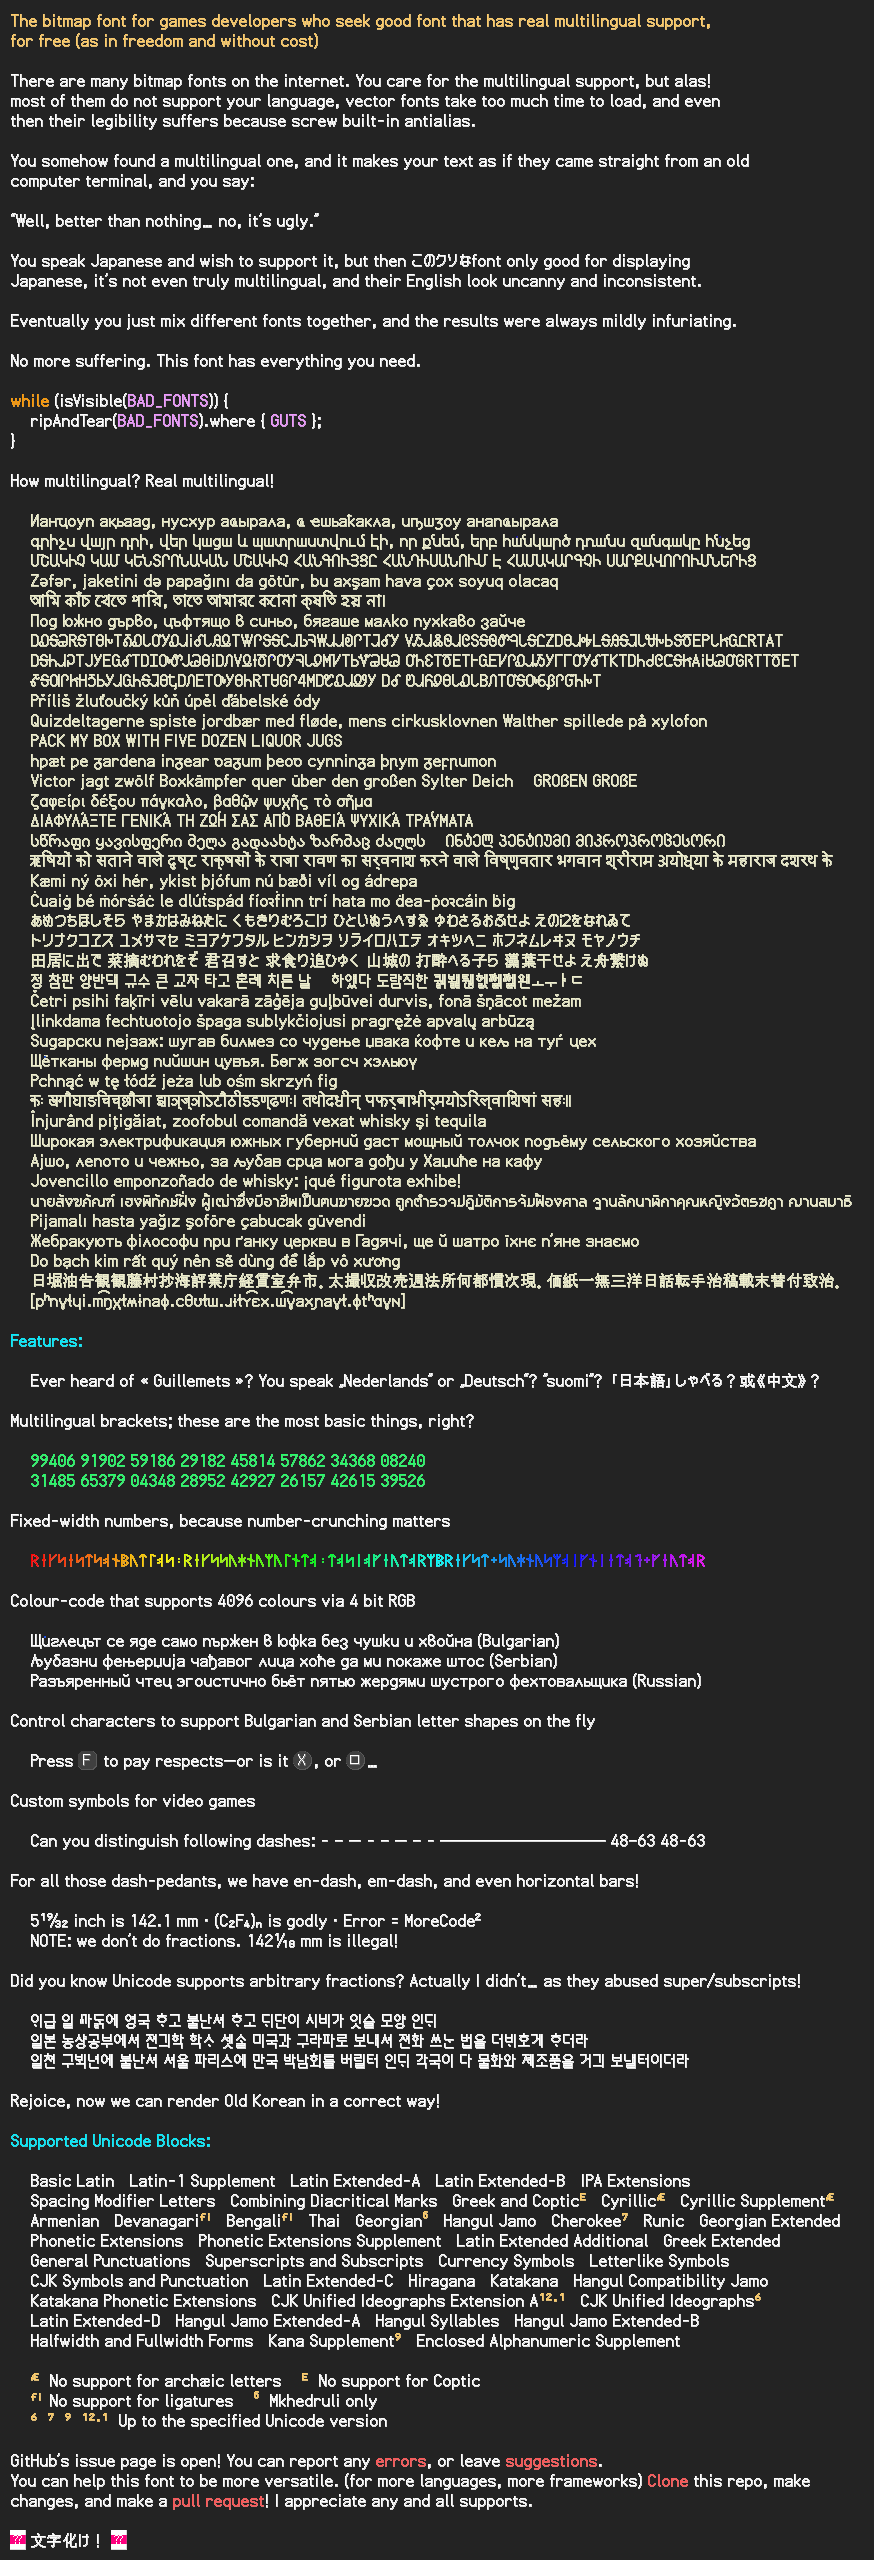
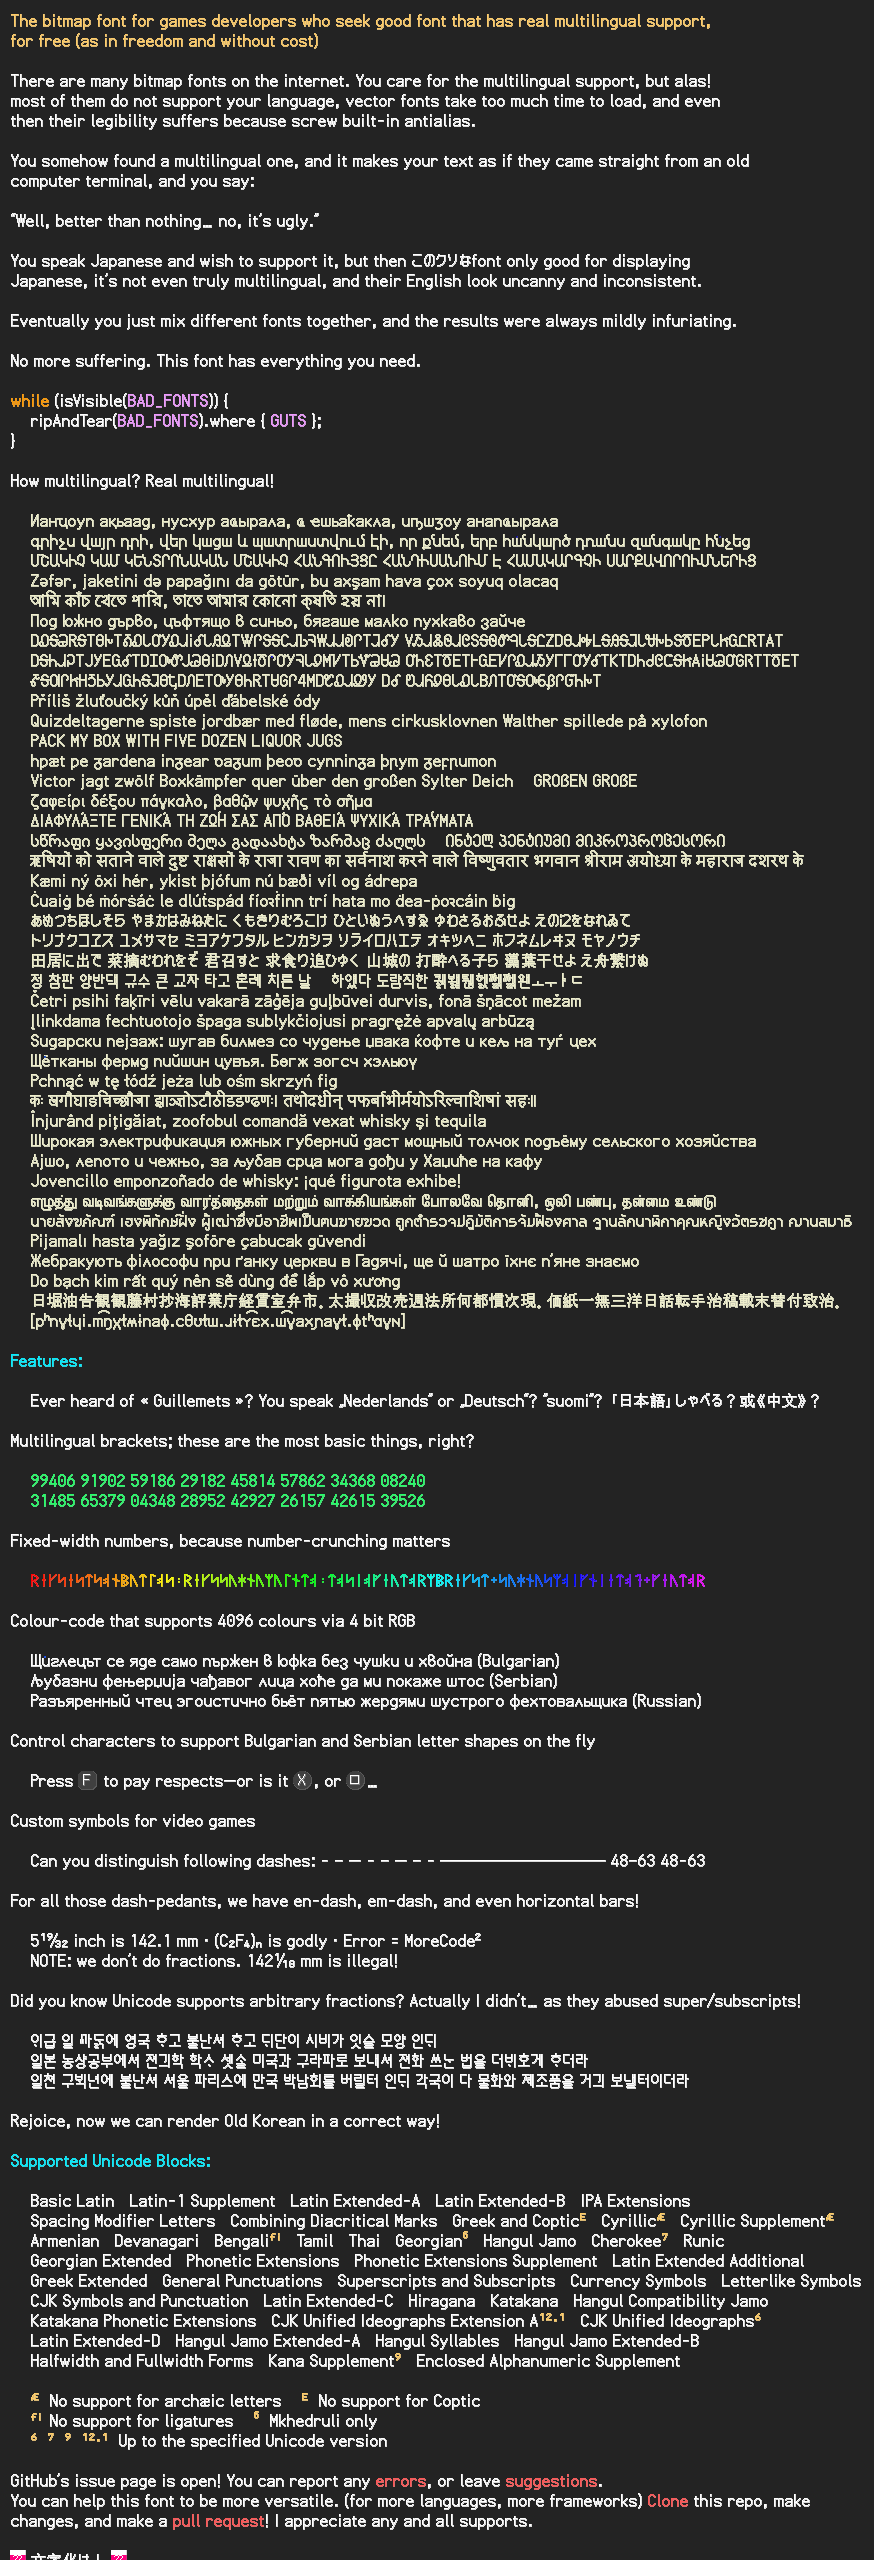
i think devanagari is fully working now

diff --git a/src/net/torvald/terrarumsansbitmap/gdx/TerrarumSansBitmap.kt b/src/net/torvald/terrarumsansbitmap/gdx/TerrarumSansBitmap.kt
@@ -32,6 +32,7 @@ import com.badlogic.gdx.graphics.g2d.*
 import com.badlogic.gdx.utils.GdxRuntimeException
 import net.torvald.terrarumsansbitmap.DiacriticsAnchor
 import net.torvald.terrarumsansbitmap.GlyphProps
+import net.torvald.terrarumsansbitmap.gdx.TerrarumSansBitmap.Companion.charInfo
 import java.io.BufferedOutputStream
 import java.io.FileOutputStream
 import java.util.*
@@ -1071,6 +1072,7 @@ class TerrarumSansBitmap(
             val c = dis[i]
             val cNext = dis.getOrElse(i+1) { -1 }
             val cNext2 = dis.getOrElse(i+2) { -1 }
+            val cNext3 = dis.getOrElse(i+3) { -1 }
             // can't use regular sliding window as the 'i' value is changed way too often
 
             // LET THE NORMALISATION BEGIN //
@@ -1163,6 +1165,13 @@ class TerrarumSansBitmap(
             // END of tamil subsystem implementation
 
             // BEGIN of devanagari string replacer
+            // Alternative Forms of Cluster-initial RA
+            else if (c == DEVANAGARI_RA && cNext == ZWJ && cNext2 == DEVANAGARI_VIRAMA && cNext3 == DEVANAGARI_YA) {
+                seq.add(DEVANAGARI_RYA); i += 3
+            }
+            else if (c == DEVANAGARI_RA && cNext == ZWJ && cNext2 == DEVANAGARI_VIRAMA) {
+                seq.add(DEVANAGARI_RA); i += 2
+            }
             // Unicode Devanagari Rendering Rule R14
             else if (c == DEVANAGARI_RA && cNext == DEVANAGARI_U) {
                 seq.add(DEVANAGARI_SYLL_RU); i += 1
@@ -1247,23 +1256,14 @@ class TerrarumSansBitmap(
         }
 
 
-        // second scan
-        // swap position of {letter, diacritics that comes before the letter}
-        i = 1
+        // BEGIN of Devanagari String Replacer 2 (lookbehind type)
+        i = 0
         while (i <= seq.lastIndex) {
-
-            // reposition [cluster, align-before, align-after] into [align-before, cluster, align-after]
-            if ((glyphProps[seq[i]] ?: nullProp).alignWhere == GlyphProps.ALIGN_BEFORE) {
-                val t = seq[i - 1]
-                seq[i - 1] = seq[i]
-                seq[i] = t
-            }
 
             val cPrev2 = seq.getOrElse(i-2) { -1 }
             val cPrev = seq.getOrElse(i-1) { -1 }
             val c = seq[i]
 
-            // BEGIN of Devanagari String Replacer 2 (lookbehind type)
             // Devanagari Ligations (Lookbehind)
             if (devanagariConsonants.contains(cPrev2) && cPrev == DEVANAGARI_VIRAMA && devanagariConsonants.contains(c)) {
                 i -= 2
@@ -1277,11 +1277,47 @@ class TerrarumSansBitmap(
 
                 i += ligature.size
             }
-            // END of Devanagari String Replacer 2
-
 
             i++
         }
+        // END of Devanagari String Replacer 2
+
+
+        // second scan
+        // swap position of {letter, diacritics that comes before the letter}
+        // reposition [cluster, align-before, align-after] into [align-before, cluster, align-after]
+        i = 0
+        while (i <= seq.lastIndex) {
+            if (i > 0 && (glyphProps[seq[i]] ?: nullProp).alignWhere == GlyphProps.ALIGN_BEFORE) {
+                val verb = seq[i]
+//                dbgprn("Verb realign: index $i, ${verb.charInfo()}")
+                if (isDevanagari(verb)) {
+                    // scan for the consonant cluster backwards
+                    // [not ligature glyphs] h h h h h c l r
+                    var scanCounter = 1
+                    while (true) {
+                        val cAtCurs = seq.getOrElse(i - scanCounter) { -1 }
+//                        dbgprn("    scan back $scanCounter, char: ${cAtCurs.charInfo()}")
+                        if (scanCounter == 1 && devanagariConsonantsNonLig.contains(cAtCurs) ||
+                            scanCounter > 1 && devanariConsonantsHalfs.contains(cAtCurs))
+                            scanCounter += 1
+                        else
+                            break
+                    } // scanCounter points at the terminator. the left-verb must be placed at (i - scanCounter + 1)
+
+                    seq.removeAt(i)
+                    seq.add(i - scanCounter + 1, verb)
+                }
+                else {
+                    val t = seq[i - 1]
+                    seq[i - 1] = seq[i]
+                    seq[i] = t
+                }
+            }
+
+            i++
+        }
+
 
         // unpack replacewith
         seq.forEach {
@@ -1740,18 +1776,26 @@ class TerrarumSansBitmap(
         private val ZWNJ = 0x200C
         private val ZWJ = 0x200D
 
-        private val tamilLigatingConsonants = listOf('க','ங','ச','ஞ','ட','ண','த','ந','ன','ப','ம','ய','ர','ற','ல','ள','ழ','வ').map { it.toInt() }.toIntArray()
+        private val tamilLigatingConsonants = listOf('க','ங','ச','ஞ','ட','ண','த','ந','ன','ப','ம','ய','ர','ற','ல','ள','ழ','வ').map { it.toInt() }.toIntArray() // this is the only thing that .indexOf() is called against, so NO HASHSET
         private val TAMIL_KSSA = 0xF00ED
         private val TAMIL_SHRII = 0xF00EE
 
-        private val devanagariConsonants = ((0x0915..0x0939) + (0x0958..0x095F) + (0x0978..0x097F) + (0xF0105..0xF01FF)).toIntArray()
-        private val devanagariVerbs = ((0x093A..0x093C) + (0x093E..0x094C) + (0x094E..0x094F)).toIntArray()
+        private val devanagariConsonants = ((0x0915..0x0939) + (0x0958..0x095F) + (0x0978..0x097F) + (0xF0105..0xF01FF)).toHashSet()
+        private val devanagariVerbs = ((0x093A..0x093C) + (0x093E..0x094C) + (0x094E..0x094F)).toHashSet()
 
         private val devanagariBaseConsonants = 0x0915..0x0939
         private val devanagariBaseConsonantsWithNukta = 0x0958..0x095F
         private val devanagariBaseConsonantsExtended = 0x0978..0x097F
         private val devanagariPresentationConsonants = 0xF0140..0xF01FF
         private val devanagariPresentationConsonantsWithRa = 0xF0145..0xF017F
+        private val devanagariPresentationIrregularConsonants = 0xF0180..0xF01BF
+
+
+        private val devanagariConsonantsNonLig = (devanagariBaseConsonants +
+                devanagariBaseConsonantsWithNukta + devanagariBaseConsonantsExtended +
+                devanagariPresentationConsonantsWithRa + devanagariPresentationIrregularConsonants).toHashSet()
+
+        private val devanariConsonantsHalfs = ((0xF0105..0xF012F) + (0xF0137..0xF013F) + (0xF01C0..0xF01FF)).toHashSet()
 
         private val DEVANAGARI_VIRAMA = 0x94D
         private val DEVANAGARI_RA = 0x930
@@ -1761,6 +1805,8 @@ class TerrarumSansBitmap(
         private val DEVANAGARI_HA = 0x939
         private val DEVANAGARI_U = 0x941
         private val DEVANAGARI_UU = 0x942
+        private val DEVANAGARI_RYA = 0xF0140
+        private val DEVANAGARI_HALF_RYA = 0xF0141
 
         private val DEVANAGARI_SYLL_RU = 0xF0100
         private val DEVANAGARI_SYLL_RUU = 0xF0101
@@ -1801,6 +1847,8 @@ class TerrarumSansBitmap(
         private val DEVANAGARI_LIG_X_R = 0xF0140 // starting point for Devanagari ligature CONSONANT+RA
 
         private fun CodePoint.toHalfFormOrNull(): CodePoint? {
+            if (this == DEVANAGARI_RYA) return DEVANAGARI_HALF_RYA
+            if (this in 0xF018C..0xF018F) return this + 0x34
             if (this == DEVANAGARI_LIG_K_SS) return DEVANAGARI_HALFLIG_K_SS
             if (this == DEVANAGARI_LIG_J_NY) return DEVANAGARI_HALFLIG_J_NY
             if (this == DEVANAGARI_LIG_T_T) return  DEVANAGARI_HALFLIG_T_T
@@ -1814,7 +1862,7 @@ class TerrarumSansBitmap(
 
         // TODO use proper version of Virama for respective scripts
         private fun CodePoint.toHalfFormOrVirama(): List<CodePoint> = this.toHalfFormOrNull().let {
-            println("[TerrarumSansBitmap] toHalfForm ${this.charInfo()} = ${it?.charInfo()}")
+//            println("[TerrarumSansBitmap] toHalfForm ${this.charInfo()} = ${it?.charInfo()}")
             if (it == null) listOf(this, DEVANAGARI_VIRAMA) else listOf(it)
         }
 
@@ -1829,7 +1877,7 @@ class TerrarumSansBitmap(
         }
 
         private fun ligateIndicConsonants(c1: CodePoint, c2: CodePoint): List<CodePoint> {
-            println("[TerrarumSansBitmap] Indic ligation ${c1.charInfo()} - ${c2.charInfo()}")
+//            println("[TerrarumSansBitmap] Indic ligation ${c1.charInfo()} - ${c2.charInfo()}")
             if (c2 == DEVANAGARI_RA) return toRaAppended(c1) // Devanagari @.RA
             when (c1) {
                 0x0915 -> /* Devanagari KA */ when (c2) {
@@ -1944,6 +1992,10 @@ class TerrarumSansBitmap(
                     0x0978 -> return listOf(MARWARI_LIG_DD_DD) // DD.DD
                     0x0922 -> return listOf(MARWARI_LIG_DD_DDH) // DD.DDH
                     DEVANAGARI_YA -> return listOf(MARWARI_LIG_DD_Y) // DD.Y
+                    else -> return c1.toHalfFormOrVirama() + c2
+                }
+                in 0xF018C..0xF018F -> /* Devanagari D.@A */ when (c2) {
+                    DEVANAGARI_YA -> return c1.toHalfFormOrVirama() + DEVANAGARI_OPEN_YA
                     else -> return c1.toHalfFormOrVirama() + c2
                 }
                 else -> return c1.toHalfFormOrVirama() + c2 // TODO use proper version of Virama for respective scripts
